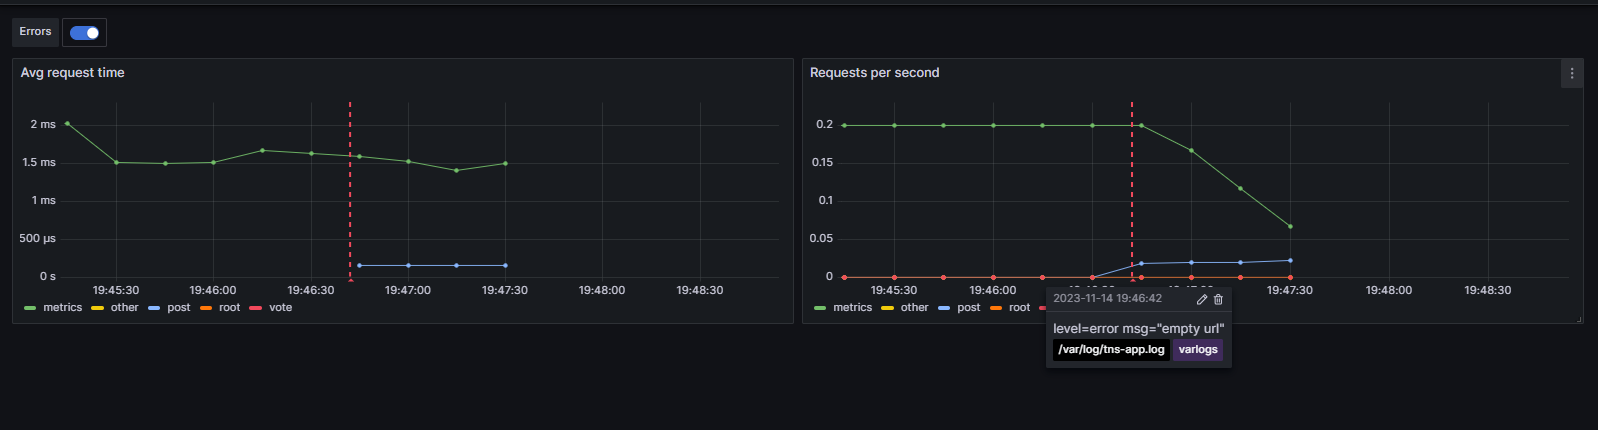
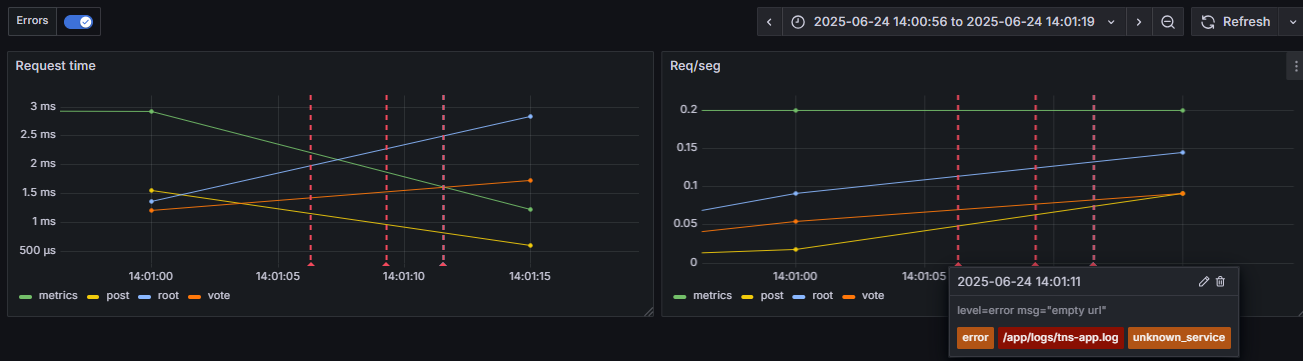
Update Lab to use Alloy - promtail EOL

diff --git a/lab/README.md b/lab/README.md
@@ -1,6 +1,6 @@
 # Lab 8.4 - Introducción a Grafana
 
-> Este laboratorio es opcional. Está basado en el tutorial [Grafana fundamentals](https://grafana.com/tutorials/grafana-fundamentals/) con algunas modificaciones
+> Este laboratorio está basado en el tutorial [Grafana fundamentals](https://grafana.com/tutorials/grafana-fundamentals/) con algunas modificaciones
 
 ## Objetivos
 En esta práctica, aprenderemos conceptos básicos de Grafana, Loki y Prometheus. Aportando la base para la monitorización de Métricas y Logs en Grafana y los mecanismos de alarmas que nos proporciona.
@@ -29,8 +29,7 @@ Estos comandos nos desplegarán una VM t3.medium con los servicios que se muestr
 
 - **Grafana News**: Aplicación de ejemplo que nos permite publicar links y votar por ellos
 - **Grafana News DB**: Servicio de base de datos para la aplicación Grafana News
-- **Node_exporter**: Agente de Prometheus que exporta las métricas de la VM Host para Prometheus
-- **Promtail**: Agente de Loki, recolecta las métricas de Grafana news y lo manda a Loki
+- **Alloy**: Agente de Grafana que se encarga de recolectar métricas y logs para su envio y almacenado en los backends configurados (Prometheus y Loki)
 - **Prometheus**: Herramienta de monitorización opensource orientada al almacenaje y consulta de métricas
 - **Grafana**: Herramienta de análisis y visualización de dashboards
 -  **Loki**: Herramienta de monitorización opensource orientada al almacenaje y agregación de logs.
@@ -47,7 +46,7 @@ Podremos ver el DNS público de la instancia en la salida del Terraform: instanc
 
 4- Accede a `Grafana` en el puerto 3000 con `HTTPS` (https://ecx-x-xxx-xx-xxx.compute-1.amazonaws.com:3000) y haz login con las siguientes credenciales:
 - **Username**: admin
-- **Password**: cloud2023
+- **Password**: cloud2025
 
 Si todo ha ido bien, deberíamos de ver la pantalla inicial de Grafana
 
@@ -70,38 +69,35 @@ La métrica `tns_request_duration_seconds_count` es de tipo contador, nos dice c
 
 Si hacemos la búsqueda, nos deberia devolver datos parecidos a este:
 ```promql
-tns_request_duration_seconds_count{instance="app:80", job="tns_app", method="GET", route="other", status_code="404", ws="false"}
+tns_request_duration_seconds_count{instance="app:80", job=""prometheus.scrape.tns_app", method="GET", route="other", status_code="404", ws="false"}
 ````
-Cada una de las lineas que nos devuelve es una serie, si te fijas, prometheus crea una serie para cada conjunto de metadatos que recolecta. De manera que tendremos una serie para por ejemplo las peticiones `GET de /vote` y otra para las `GET de /other`.
+Cada una de las líneas que nos devuelve es una serie, si te fijas, `Prometheus` crea una serie para cada conjunto de metadatos que recolecta. De manera que tendremos una serie para por ejemplo las peticiones `GET de /vote` y otra para las `GET de /other`.
 
-6.1- Modifica la consulta por `rate(tns_request_duration_seconds_count[5m])`. Utilizando la función `rate` obtendrás el ratio de incremento de peticiones por segundo, en base a los datos obtenidos durante los últimos 5 minutos. Genera trafico en la aplicación `Grafana news` para observar el incremento en el número de peticiones por segundo.
+> A partir de la versión 12.X.X de Grafana, se introdujo la funcionalidad de `Drilldown`, que es muy útil para consultar todas las métricas disponibles sin tener que hacer consultas de `PromQL` manuales. La puedes encontrar en `Drilldown > Metrics`
+
+![alt text](img/drilldown.png)
+
+6.1- Modifica la consulta por `rate(tns_request_duration_seconds_count[5m])`. Utilizando la función `rate` obtendrás el ratio de incremento de peticiones por segundo, acorde a los datos obtenidos durante los últimos 5 minutos. Genera tráfico en la aplicación `Grafana news` para observar el incremento en el número de peticiones por segundo.
 
 ![result_rate](./img/result_rate.png)
 
-Si te fijas, el ratio de peticiones por segundo de `GET /metrics` se mantiene igual. ¿Porque? La configuración de Prometheus que se muestra a continuación, indica que por defecto obtendrá los datos de todos los servicios cada 15s, excepto `Grafana News`, que lo hará cada 5s. 
+Si te fijas, el ratio de peticiones por segundo de `GET /metrics` se mantiene igual. ¿Porque? La configuración de `Alloy` que se muestra a continuación, indica que por defecto obtendrá los datos de todos los servicios cada 15s, excepto `Grafana News`, que lo hará cada 5s. 
 Eso implica que hará 12 peticiones por minuto a `/metrics` o que es lo mismo `12 / 60 = 0,2 peticiones / segundo`
-```yaml
-global:
-  scrape_interval: 15s
+```json
+prometheus.scrape "node" {
+  targets    = prometheus.exporter.unix.local_system.targets
+  scrape_interval = "15s" // Scrape de 15 segundos
+  forward_to = [prometheus.remote_write.grafana_prom.receiver]
+}
 
-scrape_configs:
-  - job_name: "prometheus"
-
-    static_configs:
-      - targets: ["localhost:9090"]
-  
-  - job_name: "node"
-
-    static_configs:
-      - targets: ["node_exporter:9100"]
-
-  - job_name: "tns_app"
-
-    # Override global settings
-    scrape_interval: 5s
-
-    static_configs:
-      - targets: ["app:80"]
+prometheus.scrape "tns_app" {
+  targets = [{
+    __address__ = "app:80",
+  }]
+  scrape_interval = "5s" // Scrape cada 5s
+  scrape_timeout = "5s"
+  forward_to = [prometheus.remote_write.grafana_prom.receiver]
+}
 ```
 
 6.2 - Utiliza el operador `sum` para agregar los datos por el metadato `route`. 
@@ -118,17 +114,23 @@ Puedes intentar agrupar por otras etiquetas, como `status_code`, variando la par
 
 8- Accedemos al explorador de fuentes de datos, igual que en el punto `6`. Pero, esta vez seleccionamos el datasource `Loki`. Selecionamos el modo `Code` y executamos la siguiente consulta de Loki
 ```txt
-{filename="/var/log/tns-app.log"}
+{filename="/app/logs/tns-app.log"}
 ```
 Esta consulta nos devolverá todos los logs del fichero `tns-app.log` de `Grafana News`. Además, también mostrará un grafico de barras indicando el número de entradas registradas en relación al tiempo
 
 ![source loki](./img/explore_loki.png)
 
+> De forma similar a las métricas, con la funcionalidad de `Drilldown` podeis consultar todos los Logs disponibles. La puedes encontrar en `Drilldown > Logs`
+
+![alt text](./img/drilldown_logs.png)
+
 8.1 - Ejecuta la siguiente consulta, para obtener solamente los logs que contengan la palabra `error`.
 ```
-{filename="/var/log/tns-app.log"} |= "error"
+{filename="/app/logs/tns-app.log"} |= "error"
 ```
 En principio, no debería de salir ninguno, ya que no hemos provocado ningún error en la aplicación `Grafana news`. Puedes generar uno al intentar insertar un nuevo post sin ningún valor en el campo `URL`. Activa el Modo Live para poder ver los logs en tiempo real según van llegando a Loki.
+
+![alt text](./img/live_logs.png)
 
 ### Crear un dashboard
 A continuación crearemos un dashboard que nos permita visualizar nuestras métricas de interés almacenadas en Prometheus.
@@ -137,7 +139,7 @@ Los dashboards están formados por paneles, cada uno formado por una `consulta` 
 9.1 - Para ello accederemos al Menu `Dashboards` y crearemos una visualización a partir del datasource `Prometheus`
 ![Create dashboard](./img/create_dashboard.png)
 
-9.2 - En esta visualización, mostraremos una gráfica del número de peticiones recibidas por segundo, agregando por cada ruta
+9.2 - En esta visualización, mostraremos una gráfica del número de peticiones recibidas por segundo, agregando por cada ruta. Incluye la gráfica en el dashboard haciendo click al botón `apply`.
 
 ```promql
 sum(rate(tns_request_duration_seconds_count[$__rate_interval])) by(route)
@@ -156,16 +158,16 @@ sum(rate(tns_request_duration_seconds_sum[$__rate_interval])) by (route) / sum(r
 
 </details>
 
-9.4 - También podemos añadir anotaciones en los gráficos, guarda el dashboard haciendo click al icono de guardado y haz doble click sobre cualquier gráfico para añadir una anotación. También puedes seleccionar intervalos de tiempo manteniendo pulsado el `CTRL`
+9.4 - También podemos añadir anotaciones en los gráficos. Guarda el dashboard haciendo click al icono de guardado y haz click sobre cualquier punto del gráfico para añadir una anotación. También puedes seleccionar intervalos de tiempo manteniendo pulsado el `CTRL`
 
 ![Annotations 1](./img/annotacions_1.png)
 
-9.5 - Hacer anotaciones manuales nos puede servir para eventos puntuales. Grafana nos permite añadir anotaciones automàticas basadas en consultas a otras bases de datos. A continuacion, vamos a añadir una anotación por cada error que registre Loki 
+9.5 - Hacer anotaciones manuales nos puede servir para eventos puntuales. Grafana nos permite añadir anotaciones automáticas basadas en consultas a otras bases de datos. A continuación, vamos a añadir una anotación por cada error que registre Loki 
 
 Seleccionamos el engranaje del menú superior para entrar a la configuración del dashboard y nos vamos al submenú `Annotations` para crear una nueva anotación. Seleccionamos el datasource de Loki e introducimos la query que hemos visto anteriormente para obtener los errores. Finalmente haremos click en `Apply` para guardar los cambios
 
 ```
-{filename="/var/log/tns-app.log"} |= "error"
+{filename="/app/logs/tns-app.log"} |= "error"
 ```
 
 ![Alt text](./img/annotations_2.png)
@@ -173,32 +175,36 @@ Seleccionamos el engranaje del menú superior para entrar a la configuración de
 Si volvemos al dashboard y provocamos algunos errores en la web de `Grafana news`, deberíamos ver las anotaciones con una opción para desactivarlas.
 
 
-![Alt text](./img/annotation_3.png)
+![alt text](./img/annotation_3.png)
 
 ### Crear Alarmas gestionadas por Grafana
 
 En este apartado, crearemos una alarma que nos avise cuando el número de peticiones por segundo de cualquier endpoint supere un valor determinado (0,25)
 
-10.1 - Para ello, accederemos al Menu `Home > Alerting > Alert Rules > New Rule` y definiremos una alerta `Traffic Alert` a partir de la consulta que hemos visto anteriormente
+10.1 - Para ello, accederemos al Menu `Home > Alerting > Alert Rules > New Alert Rule` y definiremos una alerta `Traffic Alert` a partir de la consulta que hemos visto anteriormente
 
 ```promql
 sum(rate(tns_request_duration_seconds_count[5m])) by(route)
 ```
-10.2 - Borraremos los puntos `B` / `C` y crearemos una única expresión de tipo `classic condition` que lanzará la alarma en caso de que exista un TimeSeries con valor `0,25` o superior. Tal y como se muestra en la siguiente imagen
+10.2 - Crearemos una única expresión que lanzará la alarma en caso de que exista un TimeSeries con valor `0,25` o superior. Tal y como se muestra en la siguiente imagen.
 
 ![Alt text](./img/alert_1.png)
 
-10.3 - Indicaremos el comportamiento que deseamos, definiendo la carpeta donde se guardará esta alerta (*Si no tienes ninguna, tienes que escribir el nombre en el selector y darle a la tecla ENTER*) y el grupo de evaluación (*lo tendrás que crear de la misma forma*). Indicando que todas las alarmas del grupo `traffic` se van a evaluar cada minuto `Evaluate query = 1m` y que se deberá lanzar la alarma nada más se viole la condición definida, indicando `for = 0m`.
+10.3 - Indicaremos el comportamiento que deseamos, definiendo la carpeta donde se guardará esta alerta (*Si no tienes ninguna, tienes que utilizar la opción New folder*) y el grupo de evaluación (*lo tendrás que crear de la misma forma*). Indicando que todas las alarmas del grupo `traffic` se van a evaluar cada minuto `Evaluation Interval = 1m`. Además, indicaremos que se deberá lanzar la alarma nada más se viole la condición definida, indicando `Pending Period = 0m`.
 
 ![Alt text](./img/alert_2.png)
+
+10.3.1 - Finalmente, indicaremos que la alarma deberá seguir la política de notificaciones definida en Grafana, que modificaremos más adelante. Para ello, marcaremos la opción `Advanced Options`
+
+![alt text](./img/set_contact_point_grafana.png)
 
 Dejaremos el resto de atributos por defecto y guardaremos la alarma con el botón del margen superior derecho (`Save Rule and Exit`).
 
 10.4 - A continuación crearemos el `contact point`, indicando como lanzar la acción de notificación cuando salte la alarma
 (`Home > Alerting > Contact Points > Add contact point`).
-Podemos utilizar la integración de Slack y lanzar la notificación por el webhook que hemos creado en el lab 2 o crear un webhook public nuevo con <https://requestbin.com/> haciendo click al link `public bin` para generar la url del webhook. 
+Podemos crear un webhook público nuevo con <https://requestbin.com/> haciendo click al link `public bin` para generar la url del webhook. 
 
-En este ejemplo, utilizaremos el webhook de Slack que ya tenemos precreado.
+En este ejemplo, utilizaremos el webhook de Slack que ya tenemos precreado del laboratorio 2.
 
 ![Alt text](./img/contact_point_1.png)
 
@@ -217,9 +223,18 @@ Si todo ha ido bien, deberías de ver un mensaje en slack parecido a este
 ![Alt text](./img/slack_1.png)
 
 
-
 ### Métricas de host con node_exporter
 
-Si has explorado un poco el prometheus, habrás visto que disponemos de métricas de la máquina host disponibles gracias a un componente llamado [`node_exporter`](https://github.com/prometheus/node_exporter).
+Si has explorado un poco el prometheus, habrás visto que disponemos de métricas de la máquina host disponibles gracias a `alloy`, que incluye un modulo basado en [`node_exporter`](https://github.com/prometheus/node_exporter).
+```json
+prometheus.exporter.unix "local_system" {
+  procfs_path = "/host/proc"
+  rootfs_path = "/rootfs"
+  sysfs_path = "/host/sys"
+  filesystem {
+    mount_points_exclude = "^/(sys|proc|dev|host|etc)($$|/)"
+  }
+} 
+```
 
 11.1 - Importa este dashboard creado por la comunidad (https://grafana.com/grafana/dashboards/1860-node-exporter-full/) a tu instancia de Grafana y revisa todas las métricas disponibles
